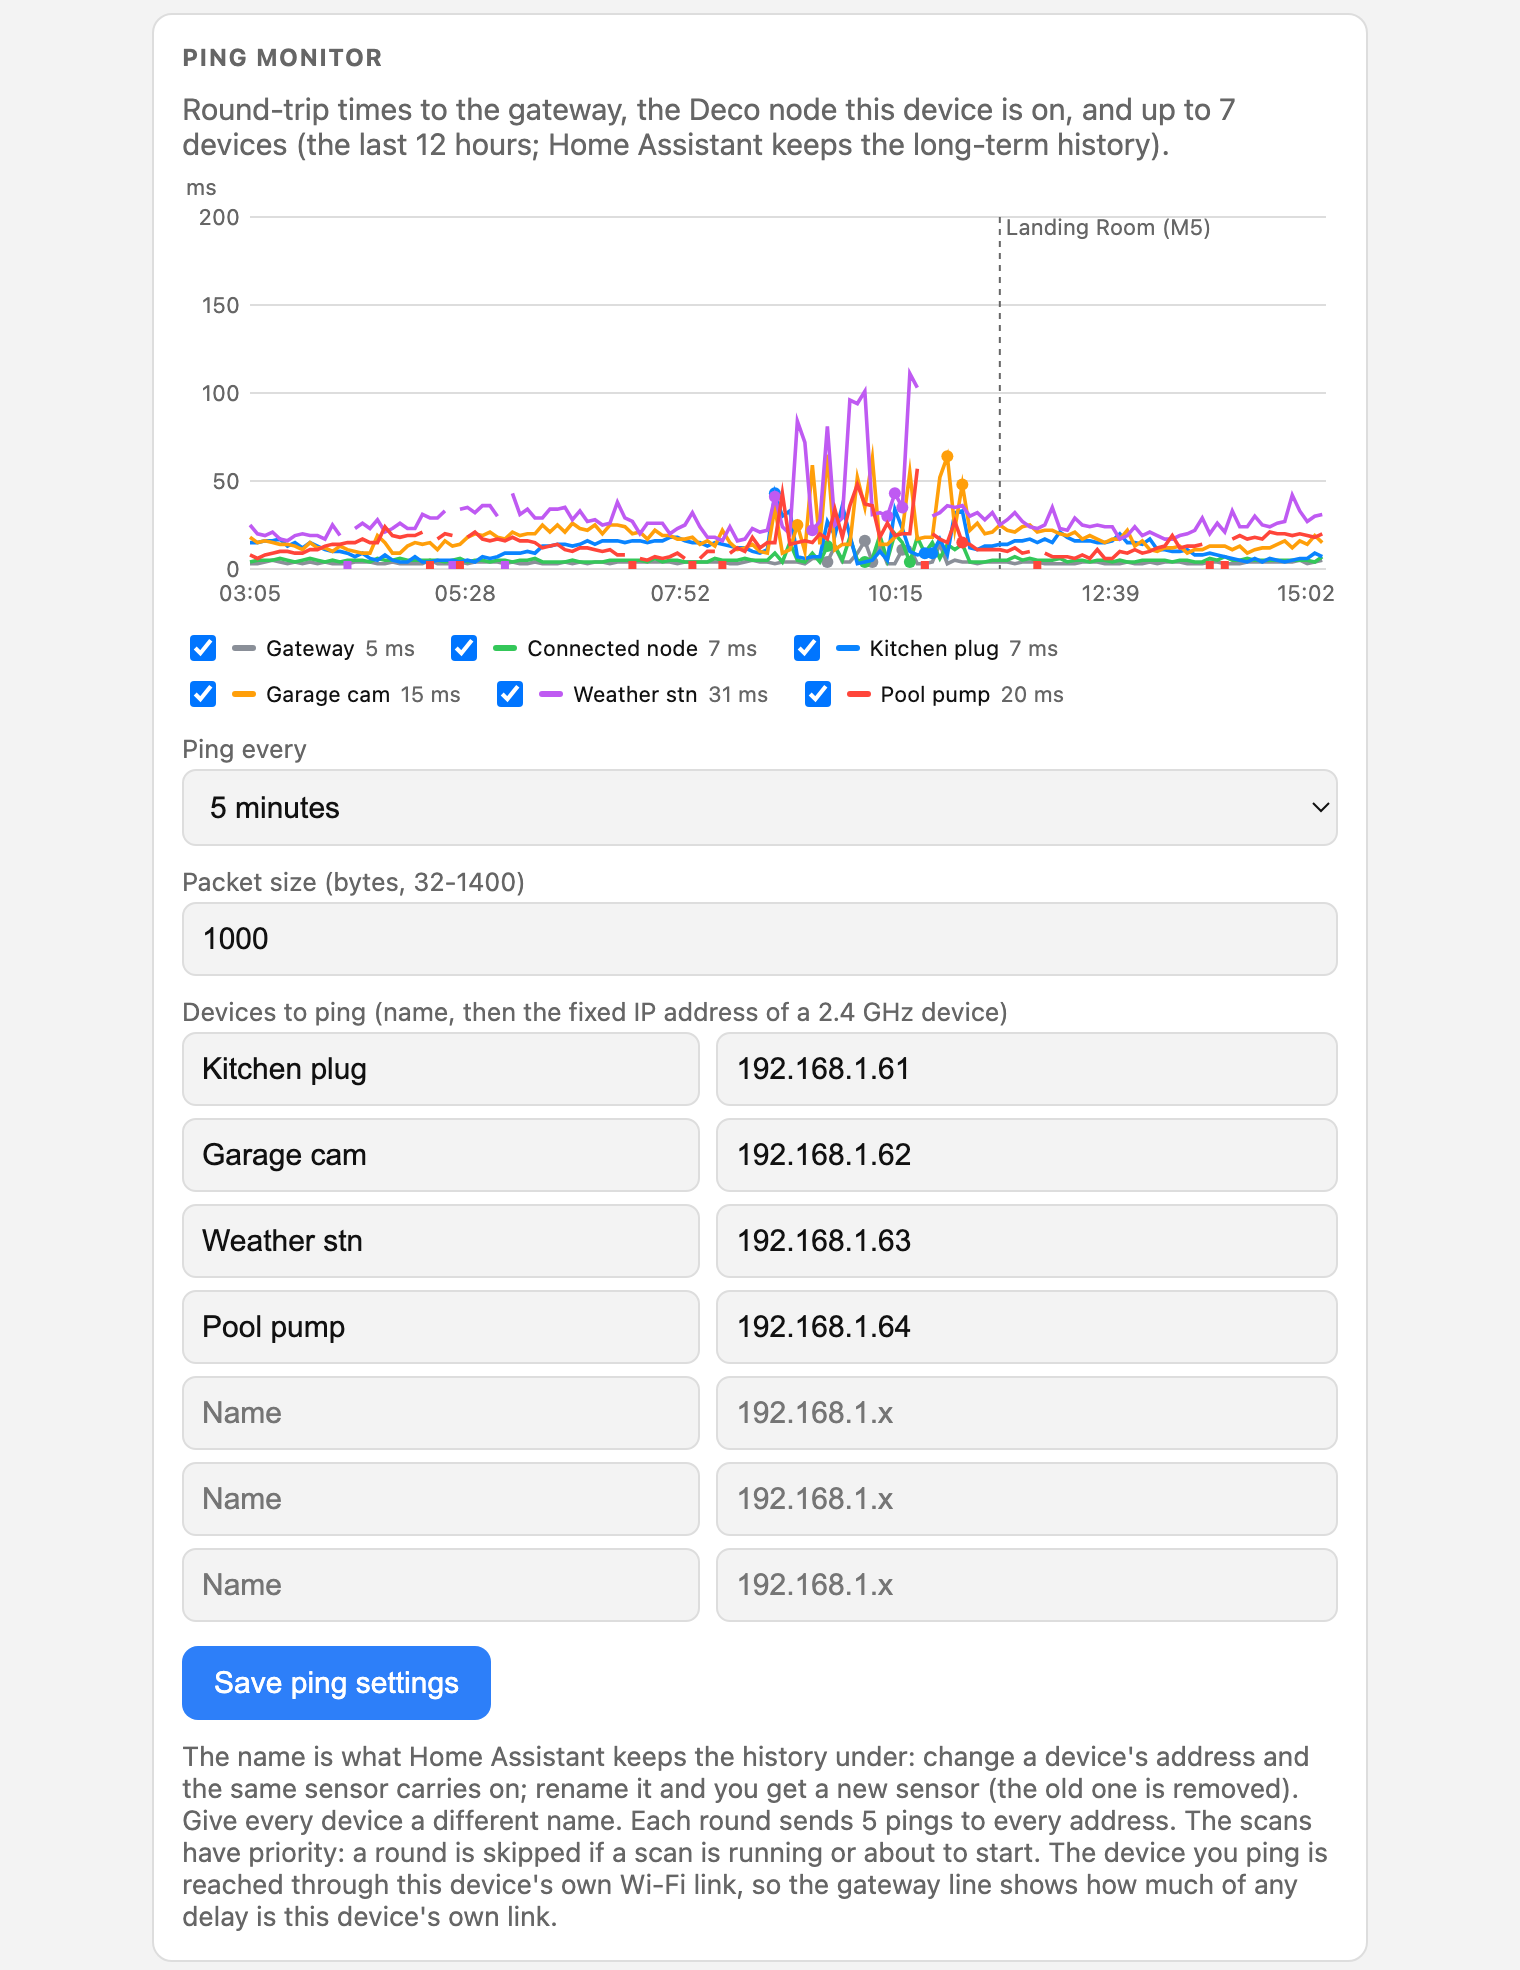
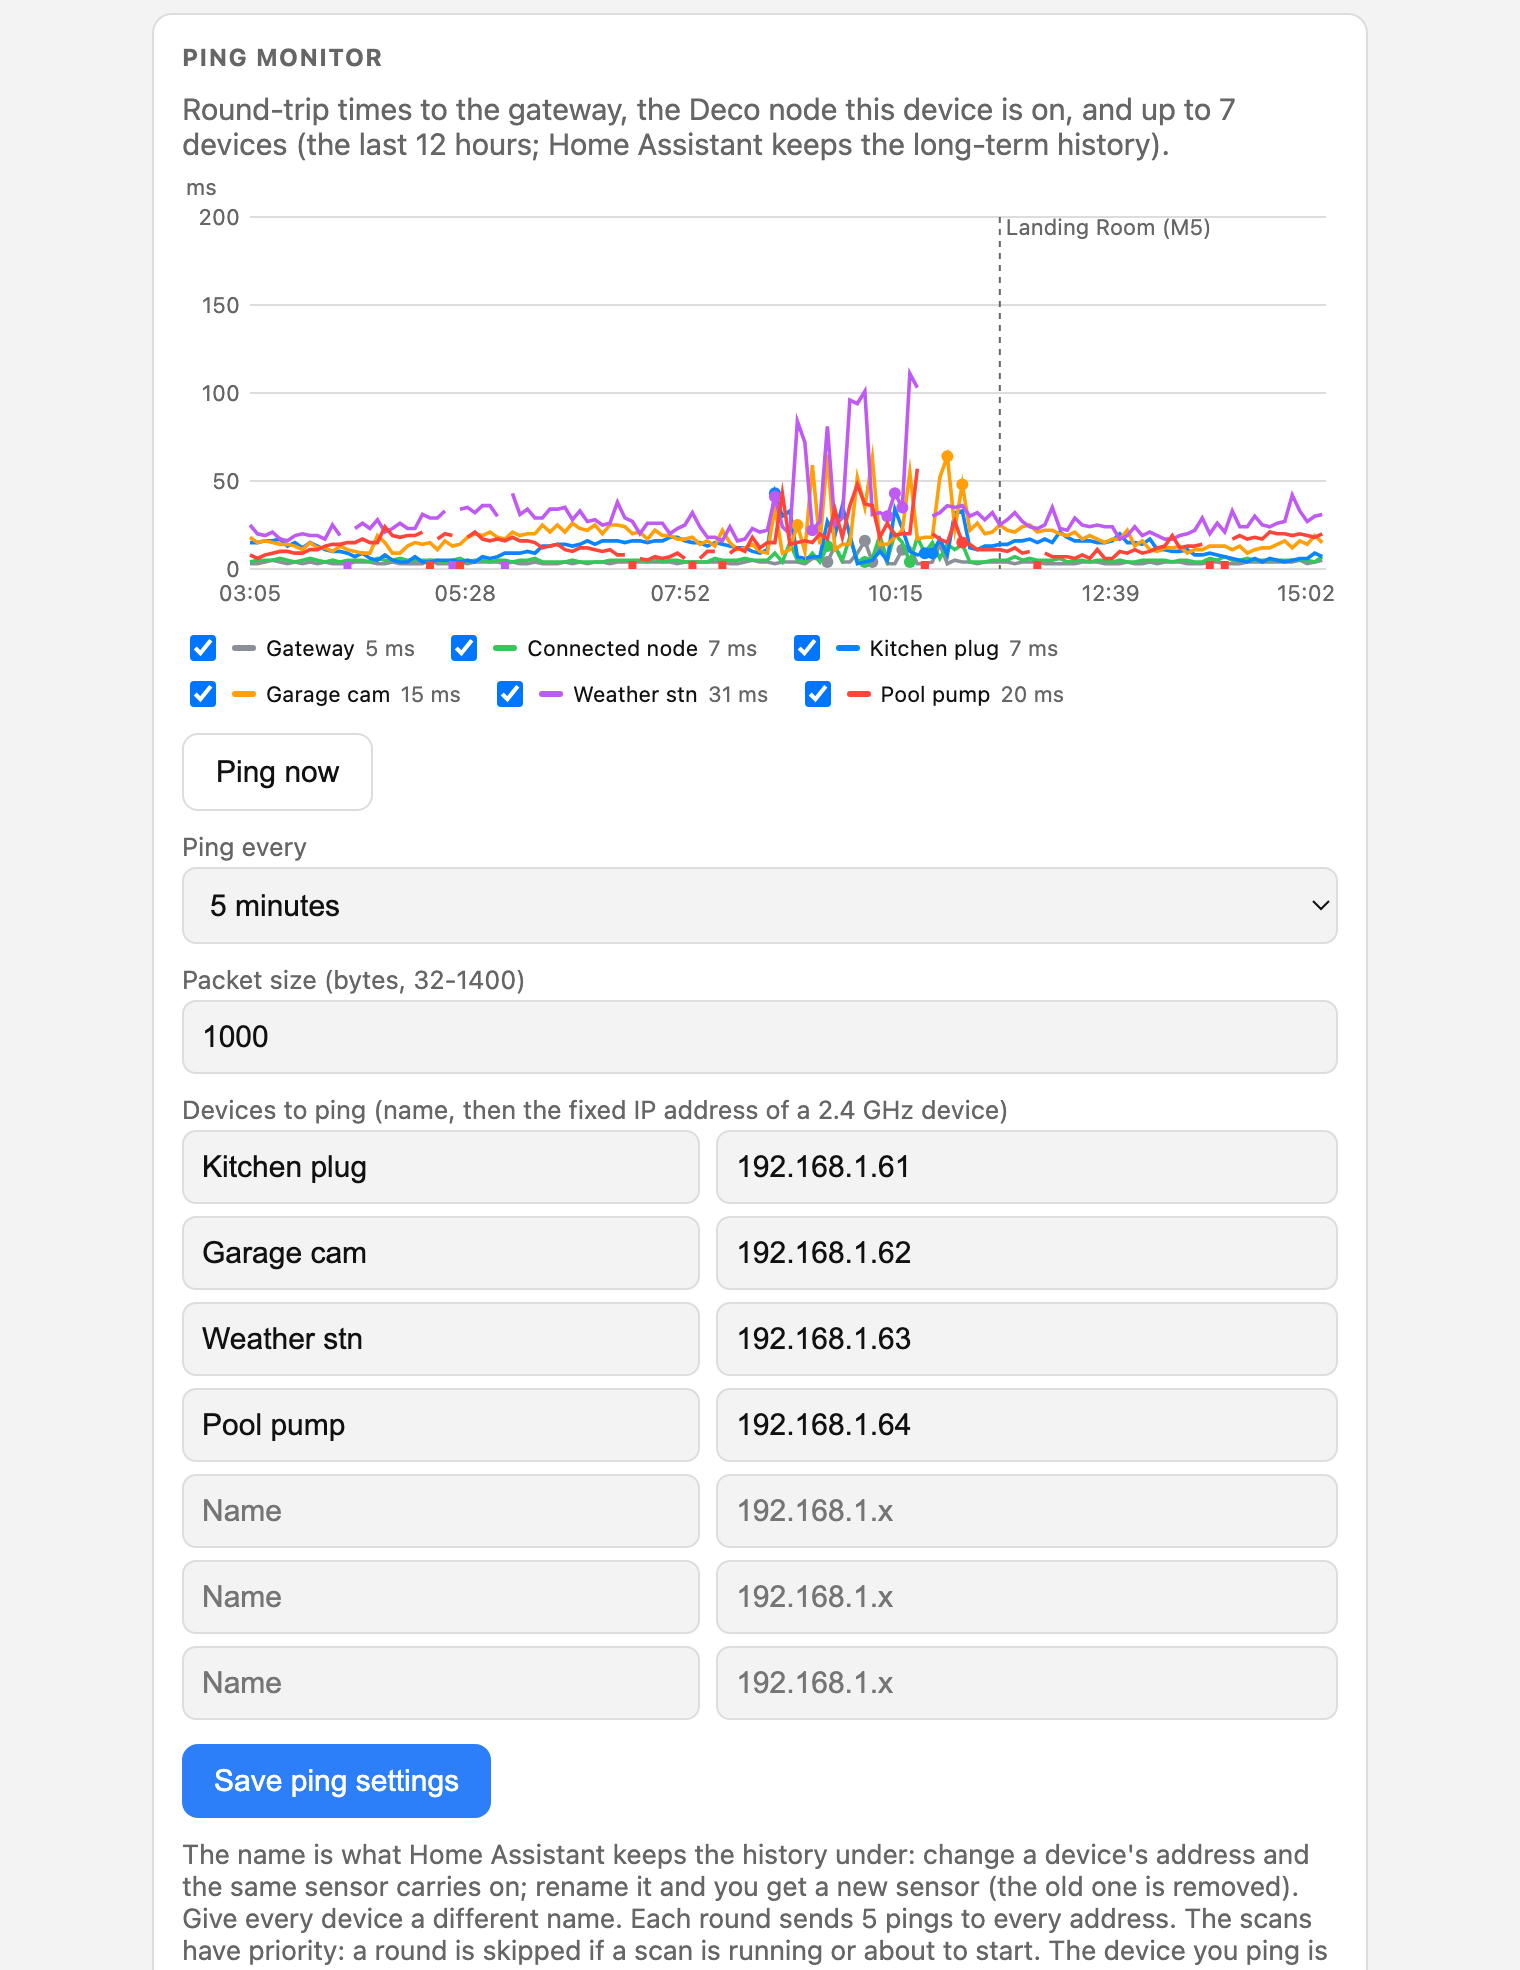
Web page: Ping now button (queues one ping round behind any scan)

Changed region(s): [[0.0928, 0.3716, 0.8967, 1.0]]

diff --git a/main/web/index.html b/main/web/index.html
@@ -35,6 +35,7 @@ input[type=text],input[type=password],input[type=time],select{width:100%;padding
 <section><h2>Ping monitor</h2>
  <div class=dim style="margin-bottom:6px">Round-trip times to the gateway, the Deco node this device is on, and up to 7 devices (the last 12 hours; Home Assistant keeps the long-term history).</div>
  <div class=chartbox><canvas id=pch></canvas><div id=pleg class=leg></div><div id=pnote class="dim msg"></div></div>
+ <div class=row style="margin:8px 0 4px"><button class=sec id=pingnow>Ping now</button><span class="dim msg" id=m_pnow></span></div>
  <label>Ping every</label>
  <select id=ping_min><option value=0>never</option><option value=5>5 minutes</option><option value=10>10 minutes</option><option value=15>15 minutes</option><option value=20>20 minutes</option><option value=30>30 minutes</option><option value=60>hour</option></select>
  <label>Packet size (bytes, 32-1400)</label><input type=number id=ping_size min=32 max=1400>
@@ -76,7 +77,7 @@ input[type=text],input[type=password],input[type=time],select{width:100%;padding
  <button class=bad id=erase>Erase all settings...</button><div class=msg id=m_erase></div></section>
 <script>
 const $=id=>document.getElementById(id);
-async function api(path,body){const o=body===undefined&&!path.startsWith('/api/run')&&!/(repin|reboot)$/.test(path)?{}:{method:'POST',headers:{'Content-Type':'application/json'},body:JSON.stringify(body||{})};
+async function api(path,body){const o=body===undefined&&!path.startsWith('/api/run')&&!/(repin|reboot|pingnow)$/.test(path)?{}:{method:'POST',headers:{'Content-Type':'application/json'},body:JSON.stringify(body||{})};
  const r=await fetch(path,o);if(r.status===401){location.reload();throw 0}if(!r.ok)throw new Error(await r.text());return r.json()}
 const fmt=ts=>ts>1.7e9?new Date(ts*1000).toLocaleString([], {day:'2-digit',month:'short',hour:'2-digit',minute:'2-digit'}):'time not set';
 const cls=v=>v==='error'?'bad':v==='optimizable'?'warn':'ok';
@@ -104,6 +105,10 @@ async function save(msgid,body,restart){try{say(msgid,'saving...');const r=await
  if(restart)setTimeout(()=>location.reload(),20000);else loadCfg()}catch(e){say(msgid,'Failed: '+(e.message||e),'bad')}}
 $('run').onclick=async()=>{await api('/api/run',{});setTimeout(refresh,400)};
 $('opt').onchange=async e=>{await api('/api/mode',{optimize:e.target.checked});refresh()};
+$('pingnow').onclick=async()=>{const b=$('pingnow'),last=()=>PD&&PD.rounds.length?PD.rounds[PD.rounds.length-1].t:0,t0=last();b.disabled=true;say('m_pnow','Pinging...');let r;try{r=await api('/api/pingnow',{})}catch(e){say('m_pnow','failed');b.disabled=false;return}
+ if(!r.ok){say('m_pnow',r.msg);b.disabled=false;return}
+ let done=false;for(let i=0;i<24&&!done;i++){await new Promise(z=>setTimeout(z,3000));await loadPings();done=last()>t0}
+ say('m_pnow',done?'Done.':'Still running; the chart updates when it finishes.');b.disabled=false};
 $('save_ping').onclick=()=>{const devs=[];for(let i=0;i<7;i++){const ip=$('pi'+i).value.trim();if(ip&&!/^(\d{1,3}\.){3}\d{1,3}$/.test(ip)){say('m_ping','device '+(i+1)+': not an IPv4 address');return}devs.push({label:$('pl'+i).value.trim(),ip})}save('m_ping',{ping_every_min:+$('ping_min').value,ping_size:+$('ping_size').value,ping_devs:devs}).then(()=>setTimeout(loadPings,300))};
 $('save_sched').onclick=()=>{const[t1,t2]=$('sched_t').value.split(':');save('m_sched',{sched_en:$('sched_en').checked,sched_h:+t1,sched_m:+t2,report_every_h:+$('rep_h').value})};
 $('save_deco').onclick=()=>save('m_deco',{deco_host:$('deco_host').value.trim(),deco_email:$('deco_email').value.trim(),deco_pass:$('deco_pass').value}).then(()=>$('deco_pass').value='');

diff --git a/main/main.c b/main/main.c
@@ -42,6 +42,16 @@ static volatile bool s_busy;
 static volatile int64_t s_last_net_ok_us;
 
 static void on_run(void) { cmd_t c = CMD_RUN_MANUAL; xQueueSend(s_cmds, &c, 0); }
+static volatile bool s_ping_queued;
+static int on_ping_now(void)                  // "Ping now" on the web page; the worker runs it after any scan in progress
+{
+    if (!g_cfg.ping_every_min) return 2;
+    if (s_ping_queued) return 1;
+    cmd_t c = CMD_PING;
+    if (xQueueSend(s_cmds, &c, 0) != pdTRUE) return 1;
+    s_ping_queued = true;
+    return 0;
+}
 static void on_mode(bool opt)                 // from the touch UI
 {
     g_cfg.optimize = opt; settings_save(); mqtt_publish_mode(opt);
@@ -71,7 +81,7 @@ static void worker_task(void *arg)
     for (;;) {
         if (xQueueReceive(s_cmds, &c, portMAX_DELAY) != pdTRUE) continue;
         if (c == CMD_FETCH_NODES) { deco_nodes_fetch(); continue; }     // once per boot, before the first SSH run
-        if (c == CMD_PING) { pings_round(); continue; }                 // the worker does one thing at a time, so never during a scan
+        if (c == CMD_PING) { s_ping_queued = false; pings_round(); continue; }                 // the worker does one thing at a time, so never during a scan
         if (s_busy) continue;
         s_busy = true; app_busy_set(true);
         if (c != CMD_RUN_REPORT) screensaver_wake();   // a run (scheduled, manual, web or MQTT) lights the screen; the in-between reports do not
@@ -204,7 +214,7 @@ static void startup_scan_task(void *arg)
 static void web_boot_task(void *arg)
 {
     wifi_wait_connected(portMAX_DELAY);
-    static const web_callbacks_t wcb = {.on_run = on_run, .on_mode = on_mode_remote};
+    static const web_callbacks_t wcb = {.on_run = on_run, .on_mode = on_mode_remote, .on_ping_now = on_ping_now};
     web_start(&wcb);
     vTaskDelete(NULL);
 }

diff --git a/main/web.c b/main/web.c
@@ -299,6 +299,16 @@ static esp_err_t h_run(httpd_req_t *r)
     return send_json(r, o);
 }
 
+static esp_err_t h_pingnow(httpd_req_t *r)
+{
+    if (!authorised(r)) return ESP_OK;
+    int rc = s_cb.on_ping_now ? s_cb.on_ping_now() : 2;
+    cJSON *o = cJSON_CreateObject();
+    cJSON_AddBoolToObject(o, "ok", rc == 0);
+    cJSON_AddStringToObject(o, "msg", rc == 0 ? "queued" : rc == 1 ? "a ping round is already waiting" : "ping monitoring is off");
+    return send_json(r, o);
+}
+
 static esp_err_t h_mode(httpd_req_t *r)
 {
     if (!authorised(r)) return ESP_OK;
@@ -435,7 +445,7 @@ void web_start(const web_callbacks_t *cb)
     hc.stack_size = 7168;
     hc.max_open_sockets = 3;      // sockets are shared with SSH, MQTT and ping
     hc.lru_purge_enable = true;
-    hc.max_uri_handlers = 16;
+    hc.max_uri_handlers = 17;
     httpd_handle_t srv;
     if (httpd_start(&srv, &hc) != ESP_OK) { ESP_LOGE(TAG, "http server failed to start"); return; }
     static const httpd_uri_t uris[] = {
@@ -444,6 +454,7 @@ void web_start(const web_callbacks_t *cb)
         {.uri = "/api/config", .method = HTTP_GET, .handler = h_config_get},
         {.uri = "/api/config", .method = HTTP_POST, .handler = h_config_post},
         {.uri = "/api/run", .method = HTTP_POST, .handler = h_run},
+        {.uri = "/api/pingnow", .method = HTTP_POST, .handler = h_pingnow},
         {.uri = "/api/mode", .method = HTTP_POST, .handler = h_mode},
         {.uri = "/api/repin", .method = HTTP_POST, .handler = h_repin},
         {.uri = "/api/reboot", .method = HTTP_POST, .handler = h_reboot},

diff --git a/main/web.h b/main/web.h
@@ -4,5 +4,6 @@
 typedef struct {
     void (*on_run)(void);
     void (*on_mode)(bool optimize);   // saves the mode and updates screen + MQTT
+    int (*on_ping_now)(void);         // 0 queued, 1 one is already queued, 2 ping monitoring is off
 } web_callbacks_t;
 void web_start(const web_callbacks_t *cb);
